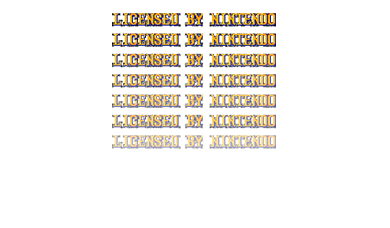
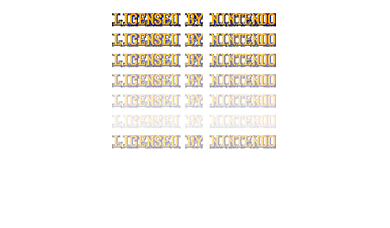
LicensedBy
Fade corrections

Changed region(s): [[0.2769, 0.1228, 0.7077, 0.5833]]

diff --git a/Street Fighter II/ModuleWelcomePage.cpp b/Street Fighter II/ModuleWelcomePage.cpp
@@ -29,12 +29,12 @@ ModuleWelcomePage::ModuleWelcomePage()
 	LicensedBy[0].w = 165;
 
 	LicensedBy[1].x = 112;
-	LicensedBy[1].y = 33;
+	LicensedBy[1].y = 32;
 	LicensedBy[1].h = 14;
 	LicensedBy[1].w = 165;
 
 	LicensedBy[2].x = 112;
-	LicensedBy[2].y = 53;
+	LicensedBy[2].y = 52;
 	LicensedBy[2].h = 14;
 	LicensedBy[2].w = 165;
 
@@ -44,7 +44,7 @@ ModuleWelcomePage::ModuleWelcomePage()
 	LicensedBy[3].w = 165;
 
 	LicensedBy[4].x = 112;
-	LicensedBy[4].y = 94;
+	LicensedBy[4].y = 93;
 	LicensedBy[4].h = 14;
 	LicensedBy[4].w = 165;
 
@@ -54,7 +54,7 @@ ModuleWelcomePage::ModuleWelcomePage()
 	LicensedBy[5].w = 165;
 	
 	LicensedBy[6].x = 112;
-	LicensedBy[6].y = 135;
+	LicensedBy[6].y = 134;
 	LicensedBy[6].h = 14;
 	LicensedBy[6].w = 165;
 
@@ -113,7 +113,7 @@ update_status ModuleWelcomePage::Update()
 		if (timer > 105 && timer < 111)App->render->Blit(Licensed, 120, 100, &LicensedBy[3]);
 		if (timer > 110 && timer < 116)App->render->Blit(Licensed, 120, 100, &LicensedBy[4]);
 		if (timer > 115 && timer <119)App->render->Blit(Licensed, 120, 100, &LicensedBy[5]);
-		if (timer > 118)App->render->Blit(Licensed, 120, 100, &LicensedBy[6]);
+		//if (timer > 118)App->render->Blit(Licensed, 120, 100, &LicensedBy[6]);
 	}
 
 	if (Nintendo == false)
